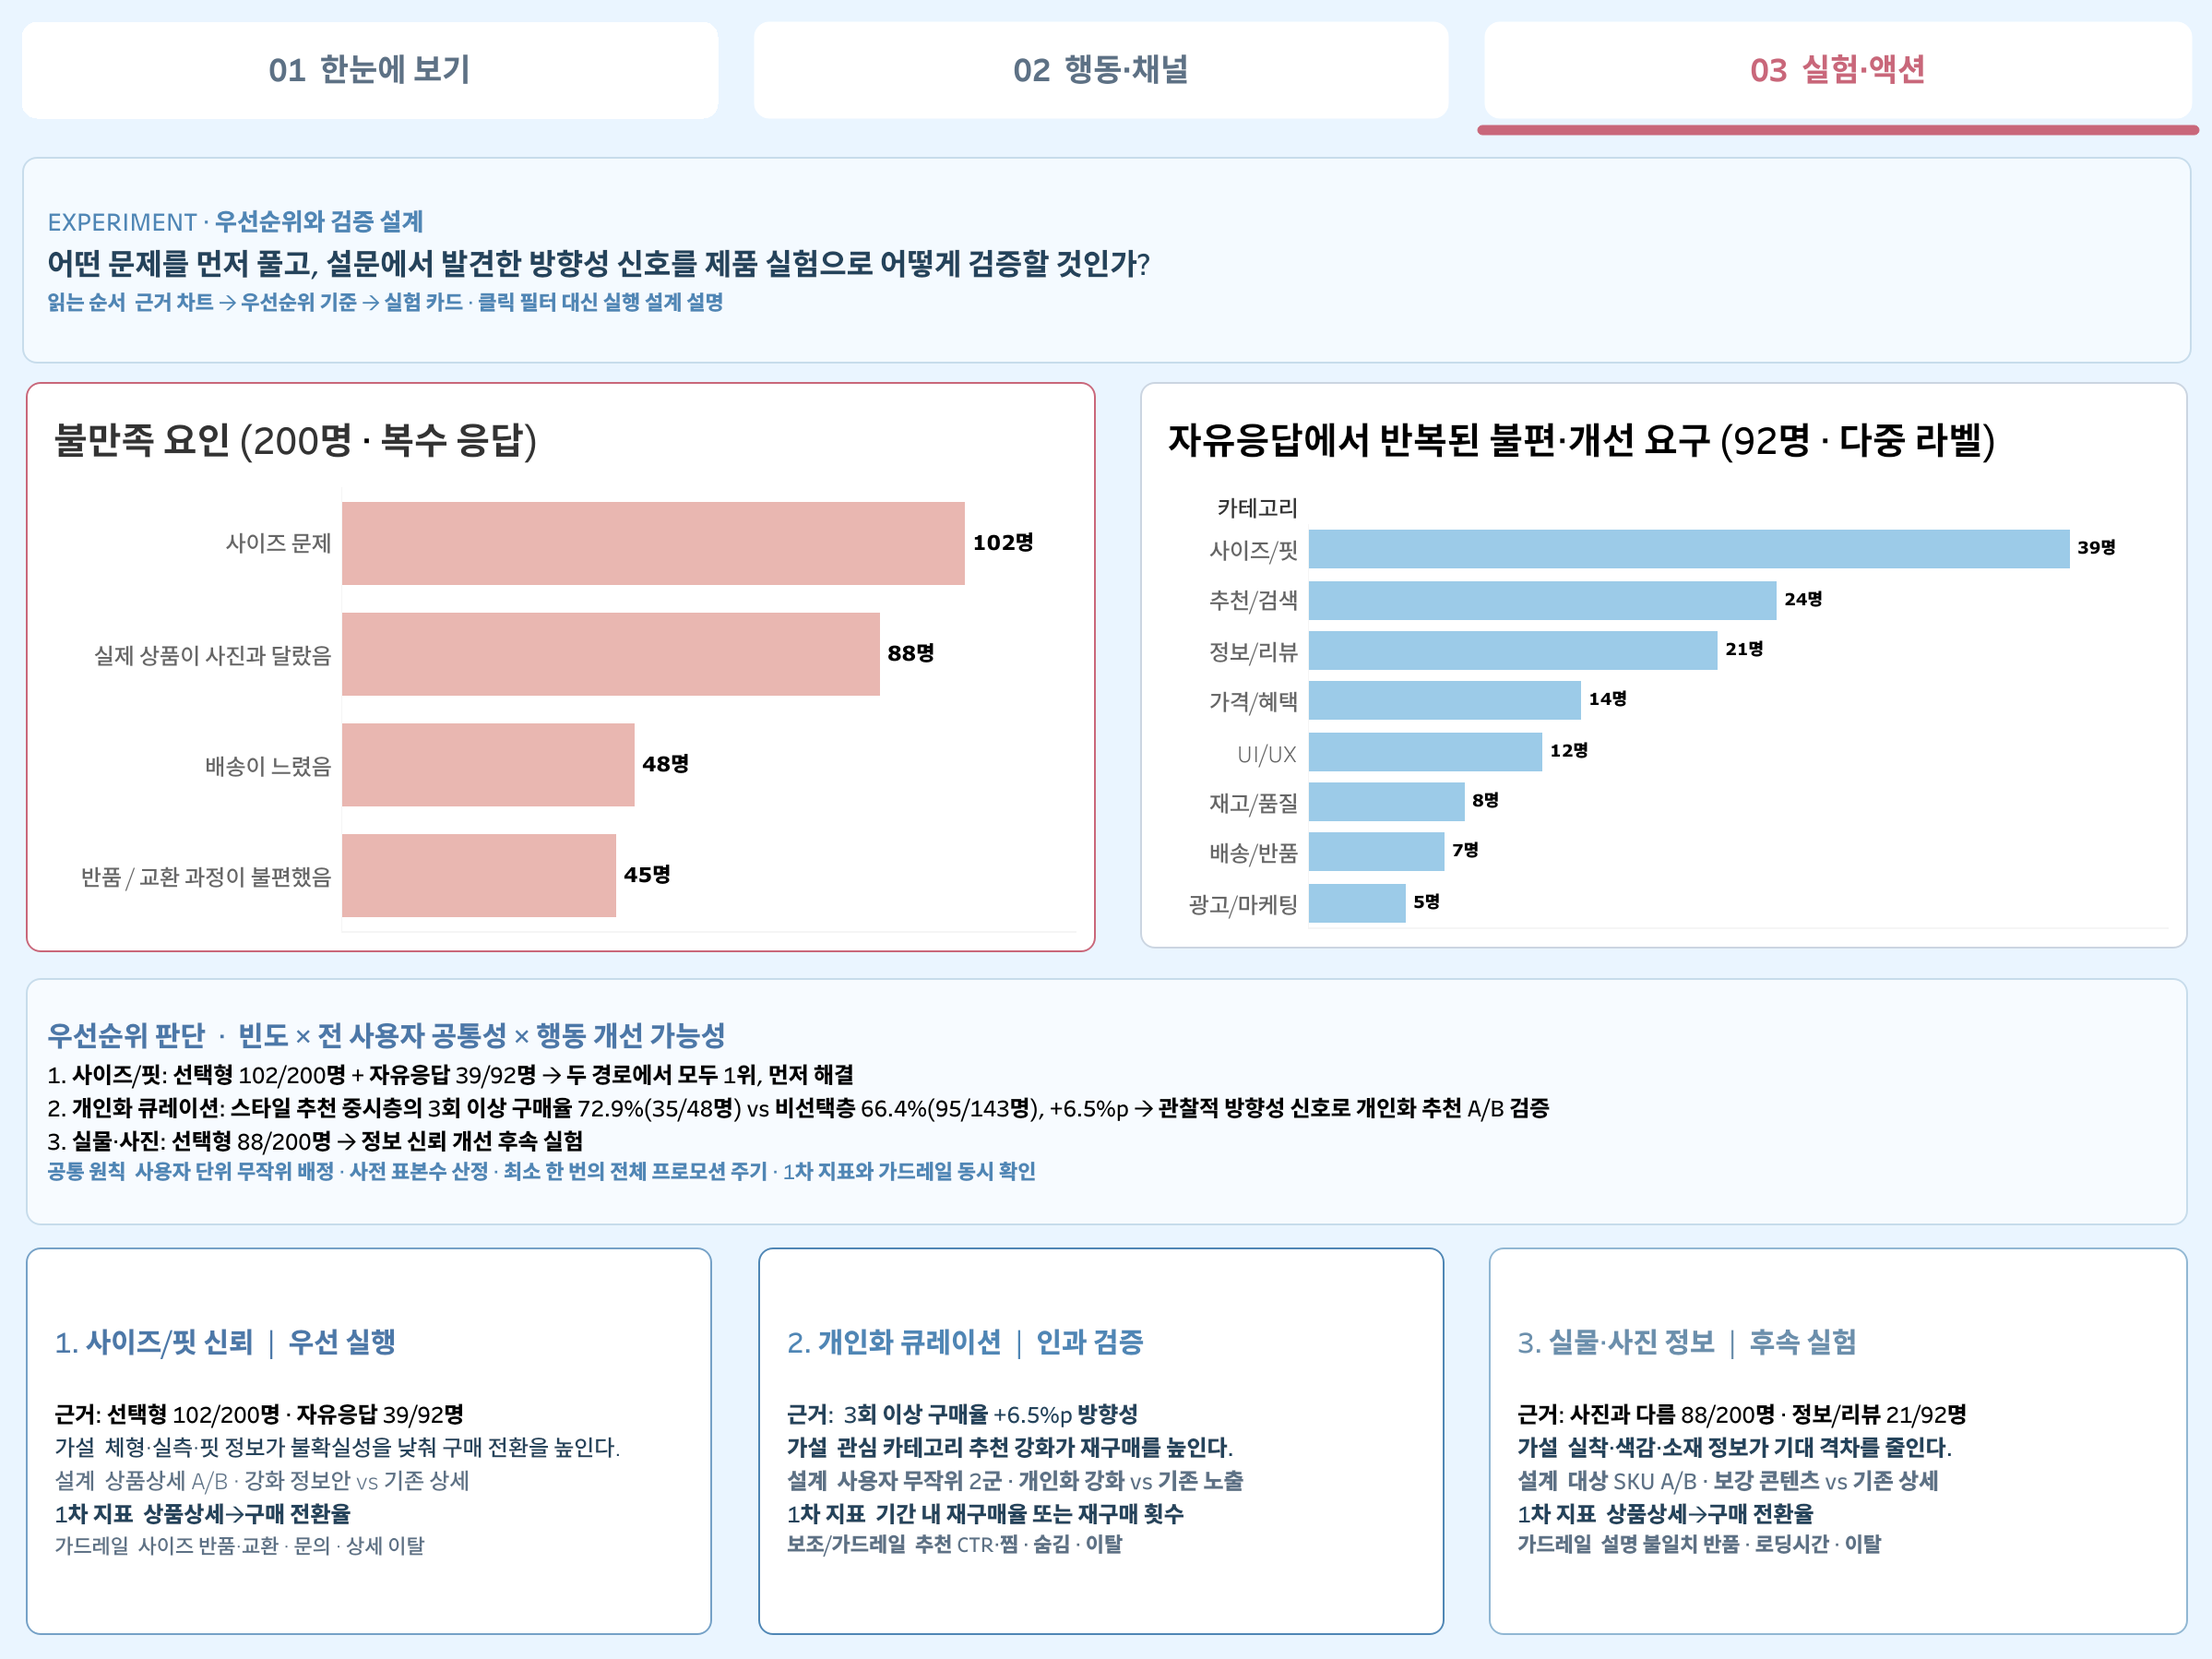
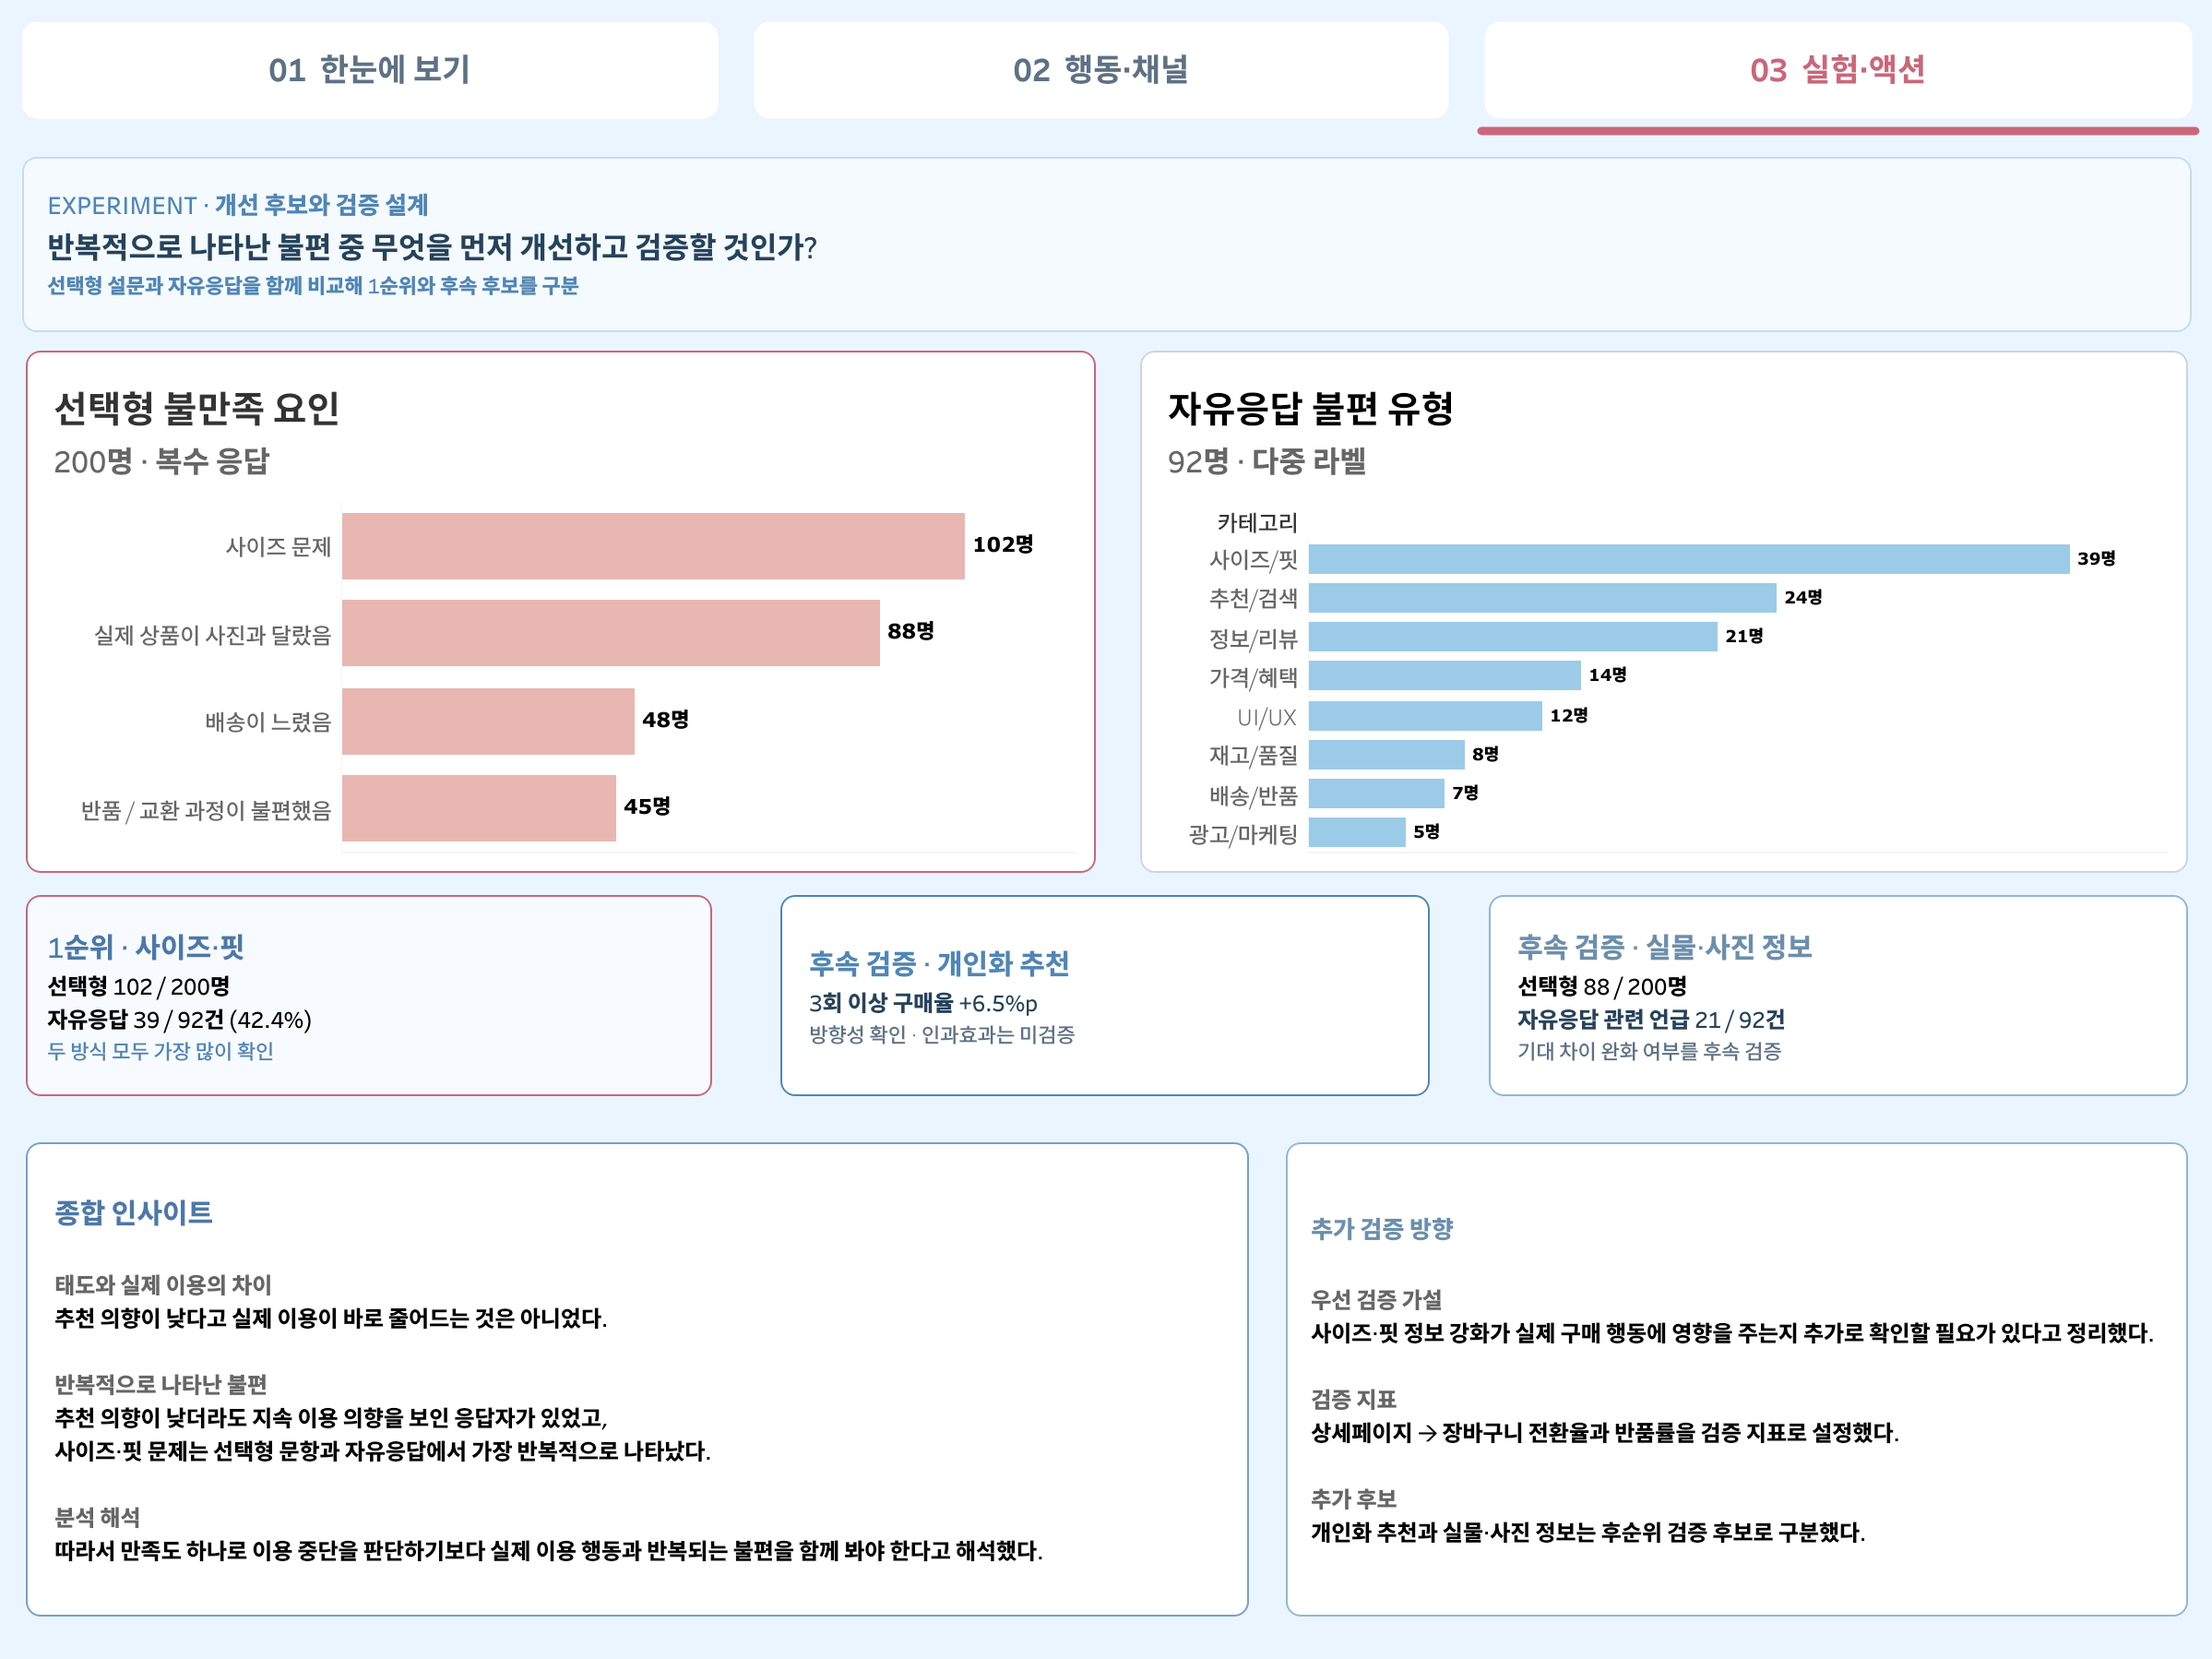
docs: sync fashion portfolio narrative and dashboards

diff --git a/README.md b/README.md
@@ -6,7 +6,7 @@
 
 ## 한눈에 보기
 
-- **질문**: 지속 이용 의향만으로 사용자의 충성도를 판단할 수 있는가?
+- **질문**: 단일 태도 지표만으로 사용자의 충성도와 실제 행동을 판단할 수 있는가?
 - **접근**: 직접 수집·정제한 설문 266명을 기반으로 SQL로 분류·집계하고 Python으로 통계 검정·텍스트 분석을 수행했다.
 - **결론**: 낮은 추천 의향이 곧 이탈은 아니었고(Detractor 88명 중 77명, 87.5%가 지속 이용 의향), 추천·지속 이용 의향은 구매 빈도·최근 구매 시점과 ρ=0.19~0.31의 약한 상관에 그쳐 단독 판단 지표로 쓰기 어려웠다.
 - **후속**: 사이즈·핏과 정보 신뢰성을 우선 과제로 두고, 로그 확보 시의 검증 설계를 정리했다.
